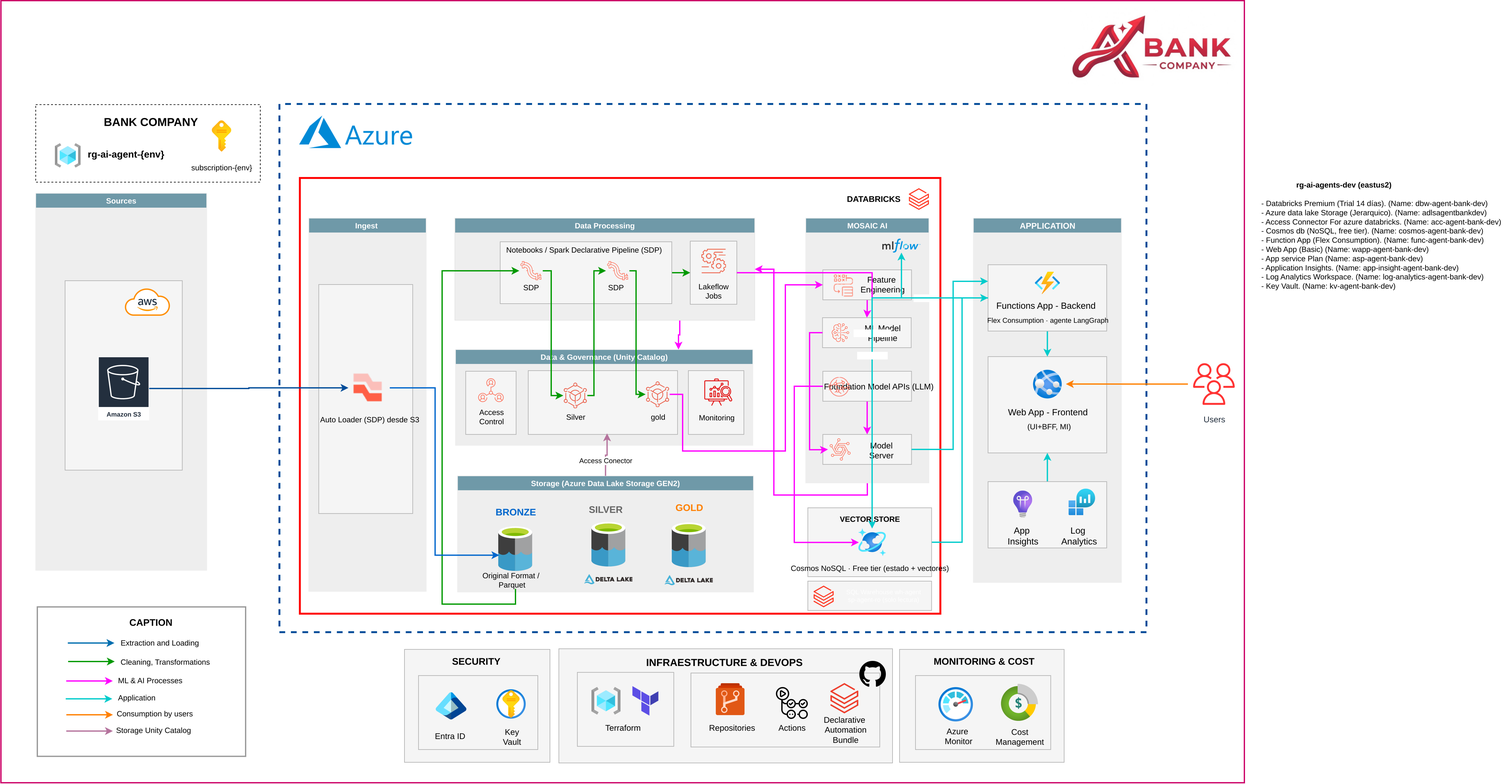
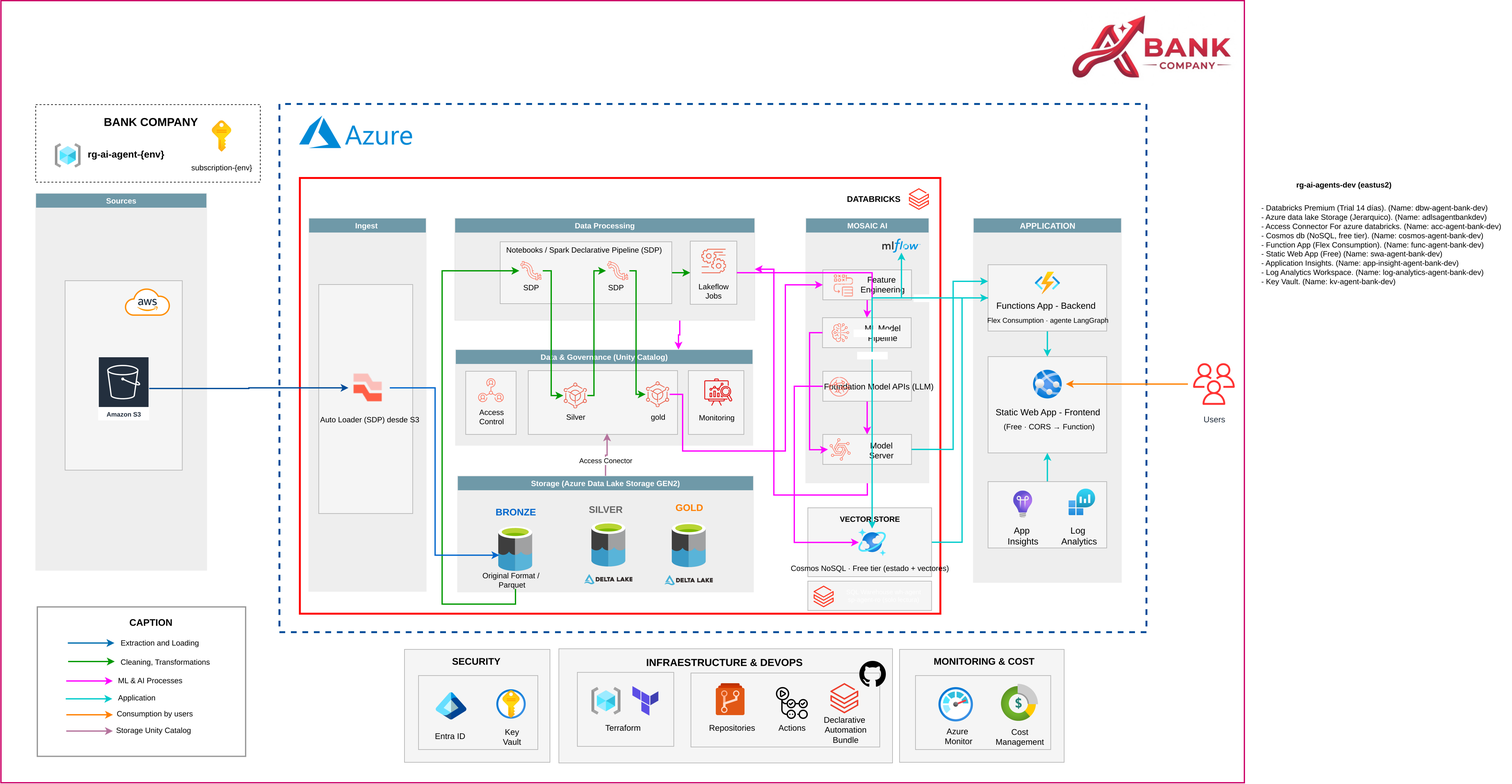
adr(servicio): ADR-19 v3 · lo que cambió al desplegar (#5)
* adr(servicio): ADR-19 v3, documentación igual a lo desplegado

* chore(diagrams): export

---------

Changed region(s): [[0.8118, 0.2474, 0.9992, 0.371], [0.6557, 0.5256, 0.7181, 0.5566]]

diff --git a/docs/adr/09-servicio.md b/docs/adr/09-servicio.md
@@ -1,15 +1,22 @@
 # 09-servicio
 
-Owner: Nicolle · v2 · 2026-09-29.
+Owner: Nicolle · v3 · 2026-09-29 (noche).
 
 ## ADR-19 · Plan de infraestructura en Terraform  ·  rol: servicio  ·  2026-09-29  ·  estado: cerrada
 
 **Decisión.** Servicio crea y opera toda la infraestructura de Azure y Databricks con Terraform, en East US 2. Datos e ia-ml trabajan dentro de esa plataforma y no crean recursos.
 
+**Cambios v3 (2026-09-29, tras el primer despliegue).**
+- Chat en **Static Web Apps Free** (`swa-agent-bank-dev`) en vez de Web App B1 + BFF: la suscripción tiene 0 de cuota de App Service B1, y con el JWT de prueba un BFF no protege nada extra.
+- Terraform corre **solo en GitHub Actions** (workflow `infra`): plan en cada PR, apply en `main` con aprobación del environment `hackathon`. No hay `infra/bootstrap`: el workflow crea el storage del estado con `infra/scripts/ensure-backend.sh`.
+- Identidad de CI: el SP `sp-deploy-iac-hackathon` que entregó Eladio, con secreto en GitHub **temporal**. Pasa a OIDC cuando Nicolle tenga Cloud Application Administrator en Entra ID. Roles del SP en la suscripción: Contributor, Storage Blob Data Contributor, User Access Administrator (con condición ABAC: solo asigna ese mismo rol) y Role Based Access Control Administrator (sin condición, otorgado por Nicolle el 2026-09-29 para que Terraform asigne roles).
+- Secret scope `fh26` administrado por Databricks (no respaldado en Key Vault: ese tipo exige token de usuario y Terraform no corre desde una laptop). Terraform copia los valores desde Key Vault.
+- Desplegado el 2026-09-29: todo `infra/azure`. Pendiente: `infra/databricks` (requiere account admin de Databricks).
+
 ### Reparto
 | Qué | Dueña/o |
 | --- | --- |
-| Azure: resource group, Key Vault, Log Analytics + App Insights, storage, Cosmos, Function App, Web App + App Service Plan, presupuesto, OIDC de CI | servicio |
+| Azure: resource group, Key Vault, Log Analytics + App Insights, storage, Cosmos, Function App, Static Web App, presupuesto, identidad de CI | servicio |
 | Databricks: workspace, ADLS Gen2 + Access Connector, storage credential + external location, catálogo `hackathon`, esquemas `bronze`/`silver`/`gold`/`ref`/`ops`/`ml`, grants del equipo, `sp-pipelines`, `sp-agent-ro`, secret scope `fh26`, `wh-agent`, experimento `/Shared/fh26/agente`, endpoints de Model Serving, config de FM APIs (endpoints, rate limits) | servicio |
 | Tablas, pipelines medallón, DQ, Asset Bundles de datos | datos |
 | Código del agente (`agent/`), prompts, modelo LightGBM y su versión, elección de LLM (ADR-02), eval | ia-ml |
@@ -20,12 +27,12 @@ Región: `eastus2` (Claude Sonnet 5 verificado por Nicolle el 2026-09-29). Nombr
 | Recurso | Nombre | SKU / plan | Notas |
 | --- | --- | --- | --- |
 | Resource group | `rg-ai-agents-dev` | — | uno para todo el hackathon |
-| Estado Terraform | `rg-tfstate-agent-bank-dev`, `sttfstateagentbankdev` | Standard LRS | se crea una vez desde `infra/bootstrap` |
+| Estado Terraform | `rg-tfstate-agent-bank-dev`, `sttfstateagentbankdev` | Standard LRS, versionado | lo crea `infra/scripts/ensure-backend.sh` dentro del workflow |
 | Key Vault | `kv-agent-bank-dev` | Standard, RBAC | secretos de la tabla "Secretos" |
 | Log Analytics + App Insights | `log-analytics-agent-bank-dev`, `app-insight-agent-bank-dev` | pago por GB (5 GB/mes sin costo) | App Insights basado en workspace |
 | Storage de la Function | `stfuncagentbankdev` | Standard LRS | `AzureWebJobsStorage` y contenedor de deploy |
 | Function App | `func-agent-bank-dev` | Flex Consumption, Linux, python3.11, 2048 MB | máx. 10 instancias; always-ready 0 (1 en ventana de jurado); identidad administrada |
-| Frontend | `wapp-agent-bank-dev` + plan `asp-agent-bank-dev` | Web App Linux, App Service Plan B1 | chat + vista `/handoff/{case_id}`; UI + BFF: llama a la Function App del lado del servidor con identidad administrada |
+| Frontend | `swa-agent-bank-dev` | Static Web Apps Free | chat + vista `/handoff/{case_id}`; llama a la Function App desde el navegador (CORS) |
 | Cosmos DB | `cosmos-agent-bank-dev` | NoSQL, free tier, capability `EnableNoSQLVectorSearch` | ver "Cosmos" |
 | Databricks | `dbw-agent-bank-dev` | Premium trial (14 días), como en el diagrama | solo cómputo serverless |
 | ADLS Gen2 | `adlsagentbankdev` | Standard LRS, HNS | storage del catálogo; contenedor `ops-export` |
@@ -45,9 +52,9 @@ Cosmos no admite búsqueda vectorial en throughput compartido. Por eso cada cont
 ### Estructura de Terraform
 ```
 infra/
-  bootstrap/    rg + storage del estado (estado local, se aplica una vez)
-  azure/        azurerm + azapi + azuread: rg, kv, log/appi, storage, cosmos, function, web app + plan, dbw, adls, access connector, budget, OIDC
-  databricks/   provider databricks (host = output de azure/): storage credential, catálogo, esquemas, grants, sp-agent-ro, sp-pipelines, secret scope, wh-agent, experimento, serving
+  azure/        azurerm + azapi: rg, kv, log/appi, storage, cosmos, function, static web app, dbw, adls, access connector, budget  (desplegado)
+  scripts/      ensure-backend.sh: storage del estado, idempotente
+  databricks/   (pendiente) provider databricks (host = output de azure/): storage credential, catálogo, esquemas, grants, sp-agent-ro, sp-pipelines, secret scope, wh-agent, experimento, serving
 ```
 Dos stacks porque el provider de Databricks necesita la URL del workspace antes de configurarse.
 
@@ -57,7 +64,7 @@ Dos stacks porque el provider de Databricks necesita la URL del workspace antes 
 | `databricks-client-secret` | Function App (`DATABRICKS_CLIENT_SECRET`) |
 | `cosmos-key` | Function App (`COSMOS_KEY`), carga de chunks |
 | `jwt-signing-key` | Function App (`JWT_SIGNING_KEY`) |
-| `s3-access-key-id`, `s3-secret-access-key` | ingesta de S3, vía secret scope `fh26` |
+| `s3-access-key-id`, `s3-secret-access-key` | ingesta de S3, vía secret scope `fh26`. Entran como secretos de GitHub (`S3_ACCESS_KEY_ID`, `S3_SECRET_ACCESS_KEY`) → Terraform → Key Vault |
 
 El scope `fh26` expone `s3-access-key-id`, `s3-secret-access-key` y `cosmos-key` (carga de chunks a Cosmos, E7).
 
@@ -65,7 +72,7 @@ App Settings de la Function App (`contracts/infra.yaml` v3): los 12 de v2 más `
 
 `sp-agent-ro` es un service principal de Databricks con secreto OAuth M2M. Grants: `USE CATALOG hackathon`, `USE SCHEMA` + `SELECT` sobre `gold` y `ref`, `CAN_USE` sobre `wh-agent`, `CAN_QUERY` sobre los endpoints de serving y FM APIs, `CAN_EDIT` sobre `/Shared/fh26/agente`. Sin escritura en datos.
 
-El secret scope `fh26` usa Key Vault como respaldo. Se crea con token de usuario de Entra (`az login`), no con el SP de CI.
+El secret scope `fh26` lo administra Databricks. Terraform (stack `infra/databricks`) lee los valores de Key Vault y los escribe en el scope.
 
 Grants del equipo:
 
@@ -81,7 +88,7 @@ Storage: storage credential sobre `acc-agent-bank-dev` y external location sobre
 ### Identidad (cierra ADR-12)
 Mock JWT. `POST /session` corre en la Function App, recibe uno de los 5 clientes de prueba (M3, `docs/test-users.md`) y firma HS256 con `JWT_SIGNING_KEY`. Claims: `customer_id`, `scopes`, `exp` (30 min). El nodo de auth valida firma y `exp`; `customer_id` solo sale del token. Entra External ID queda en To-Be.
 
-La Web App (BFF) llama a la Function App del lado del servidor con el token de su identidad administrada; la Function App acepta ese token y el de CI (smoke y carga). Mecanismo (Easy Auth o validación en código) y App Settings del BFF se cierran en N5.
+El chat (Static Web App) llama a la Function App desde el navegador con el JWT. CORS en la Function App solo acepta el origen de la Static Web App. Los triggers HTTP van con `auth_level=ANONYMOUS` y validan el JWT en código (no hay dónde esconder una function key). `/handoff/{case_id}` y `/trace/{trace_id}` exigen un scope de agente humano en el JWT; el nombre del scope lo define ia-ml en `contracts/api.yaml`.
 
 ### Resiliencia
 | Punto | Control |
@@ -92,6 +99,7 @@ La Web App (BFF) llama a la Function App del lado del servidor con el token de s
 | Function App | máx. 10 instancias para acotar costo y llamadas a FM APIs |
 | Model Serving | scale-to-zero fuera de la ventana de jurado; el cold start supera los 8 s de timeout y el turno escala |
 | `/healthz` | revisa LLM, Cosmos, Model Serving y SQL Warehouse |
+| SQL Warehouse | serverless apagado tarda en arrancar y puede pasar los 8 s de timeout de las tools; ver "Capacidad y límites" |
 
 ### Observabilidad
 - App Insights → Log Analytics. `operation_id` = `trace_id`.
@@ -104,12 +112,13 @@ La Web App (BFF) llama a la Function App del lado del servidor con el token de s
 ### CI/CD
 | Workflow | Disparo | Qué hace |
 | --- | --- | --- |
-| `ci.yml` | PR | pytest, eval-harness (cuando exista M7), `terraform fmt/validate/plan` con comentario en el PR, gitleaks |
-| `deploy.yml` | push a `main` | `terraform apply` (azure → databricks), deploy de la Function App, deploy de la Web App, smoke `/chat` (N8) |
-| `bundles.yml` | push a `main` con cambios en bundles | `databricks bundle deploy` (X2), con `run_as` = `sp-pipelines` |
-| `adr-impact.yml`, `diagram-sync.yml` | PR | sin cambio; `diagram-sync` necesita arreglo de push (hace push desde un HEAD suelto) |
+| `infra.yml` | PR y push a `main` en `infra/**` | PR: backend, `init`, `validate`, `plan`, comentario en el PR. `main`: `apply` tras aprobar el environment `hackathon` |
+| `ci.yml` (pendiente) | PR | pytest, eval-harness (cuando exista M7), gitleaks |
+| `deploy.yml` (pendiente) | push a `main` | deploy de la Function App y de la Static Web App (el token de deploy se pide con `az staticwebapp secrets list`), smoke `/chat` (N8) |
+| `bundles.yml` (pendiente) | push a `main` con cambios en bundles | `databricks bundle deploy` (X2), con `run_as` = `sp-pipelines` |
+| `adr-impact.yml`, `diagram-sync.yml` | PR | `diagram-sync` sube los PNG a la rama del PR y no corre en commits del bot |
 
-Autenticación: OIDC de GitHub a Entra, sin secretos en GitHub. App registration `gh-agent-bank-deploy` con credenciales federadas para `repo:nicollemayol/factored-hackathon-2026-the-trident` (rama `main` y `pull_request`). Roles: Contributor y Role Based Access Control Administrator sobre `rg-ai-agents-dev`; Storage Blob Data Contributor sobre el estado. El provider de Databricks usa `auth_type = "github-oidc-azure"`. Solo Nicolle mergea a `main`.
+Autenticación (temporal): SP `sp-deploy-iac-hackathon` con secreto `AZURE_CLIENT_SECRET` en GitHub; `AZURE_CLIENT_ID`, `AZURE_TENANT_ID`, `AZURE_SUBSCRIPTION_ID` como variables. Riesgo: cualquier rama del repo puede leer el secreto desde un workflow; se acepta por días entre tres personas. Destino: OIDC con credenciales federadas para `repo:NicolleMayol/factored-hackathon-2026-the-trident:pull_request` y `…:environment:hackathon`. Solo Nicolle aprueba el apply y mergea a `main`.
 
 ### Capacidad y límites conocidos
 | Límite | Valor | Efecto |
@@ -117,7 +126,10 @@ Autenticación: OIDC de GitHub a Entra, sin secretos en GitHub. App registration
 | Arranque de la Function App | 30 s, fijo | si `agent/` carga modelos al importar, la app no arranca |
 | Memoria por instancia | 512 / 2048 / 4096 MB | se usa 2048 |
 | Cosmos | 400 RU/s por contenedor | picos de carga de chunks deben ir con throttle |
-| App Service Plan B1 | 1 núcleo, 1,75 GB, sin tope diario de CPU | suficiente para el chat y el BFF |
+| Cuota de App Service B1 en la suscripción | 0 | el chat va en Static Web Apps, que no usa esa cuota |
+| Static Web Apps Free | 100 GB/mes de ancho de banda, 250 MB por app (a verificar) | suficiente para el chat |
+| SQL Warehouse serverless apagado | varios segundos de arranque (a medir) | la primera consulta de `get_customer_profile` puede pasar los 8 s y escalar. Propuesta abierta: copiar los datos de cliente que usa el agente a Cosmos |
+| Primer apply de la Function App | bug de azurerm 5.1: el bloque CORS depende de la URL de la Static Web App y falla la primera vez | volver a correr el apply; desde entonces planea bien |
 | FM APIs pay-per-token | límites por workspace | se miden en N7 |
 | Cuota de vCPU de la suscripción | depende de la cuenta | solo cómputo serverless en Databricks |
 | Lectura de S3 desde serverless | las llaves de S3 en la config de Spark no están disponibles en serverless (a verificar) | ingesta con boto3 + llaves del scope → volumen de UC → Auto Loader; o `azcopy` S3 → ADLS desde GitHub Actions. Decide datos |
@@ -128,9 +140,9 @@ Carga (N7): k6 desde GitHub Actions con 10/25/50 usuarios; p50/p95 en caliente, 
 | Fase | Fecha | Qué | Desbloquea |
 | --- | --- | --- | --- |
 | 0 · Chequeos | mar 29 noche | créditos en Cost Management, regiones de Flex, cuota de vCPU | — |
-| 1 · Databricks | mar 29 noche | workspace, ADLS, Access Connector, storage credential, KV + scope, catálogo, esquemas, grants del equipo, `sp-agent-ro`, `sp-pipelines`, `wh-agent`, experimento | X1 → Eladio, Manuela |
-| 2 · Azure app | mar 29 → mié 30 mañana | Cosmos, Function App, App Insights, `/session` | N3, N4, N2 |
-| 3 · CI/CD + frontend | mié 30 | OIDC, `ci.yml`, `deploy.yml`, bundles, Web App | N1, X2, N5 → Integración 1 |
+| 1 · Databricks | mar 29 noche: workspace, ADLS y Access Connector hechos; el resto espera account admin | workspace, ADLS, Access Connector, storage credential, KV + scope, catálogo, esquemas, grants del equipo, `sp-agent-ro`, `sp-pipelines`, `wh-agent`, experimento | X1 → Eladio, Manuela |
+| 2 · Azure app | mar 29 noche: hecho salvo `/session` | Cosmos, Function App, App Insights, `/session` | N3, N4, N2 |
+| 3 · CI/CD + frontend | mié 30 | workflow `infra` (hecho), `ci.yml`, `deploy.yml`, bundles, Static Web App (creada) | N1, X2, N5 → Integración 1 |
 | 4 · Observar + carga | jue 1 → sáb 3 | export a `ops.infra_requests`, smoke, tablero, k6 | N6, N8, X3, N7 |
 | 5 · Ventana de jurado | sáb 3 → resultados | always-ready 1 en la Function App; Model Serving sin scale-to-zero | demo sin cold start |
 | 6 · Cierre | tras resultados | `terraform destroy` | corta el gasto |
@@ -142,8 +154,8 @@ Carga (N7): k6 desde GitHub Actions con 10/25/50 usuarios; p50/p95 en caliente, 
 | Function App always-ready | 1 instancia × 2 GB × 72 h (ventana de jurado) | ≈ 2 |
 | Function App on-demand | dentro de la cuota mensual sin costo | ≈ 0 |
 | Storage, Key Vault, Log Analytics | < 5 GB de logs | < 1 |
-| Web App | App Service Plan B1 Linux × 168 h | ≈ 3 |
-| **Azure, subtotal** | | **≈ 8–9** |
+| Static Web Apps | Free | 0 |
+| **Azure, subtotal** | | **≈ 5–6** |
 | Databricks (serverless SQL, jobs, Model Serving, tokens de FM APIs) | se mide a diario en `system.billing.usage` | a medir |
 
 Créditos disponibles: sin confirmar. `budget_usd` se fija en la fase 0. El workspace usa el SKU `trial` del diagrama DEMO: DBU Premium sin costo por 14 días desde su creación (vence cerca del 13 oct). A verificar si cubre serverless, Model Serving y FM APIs, y qué pasa si la evaluación sigue después del vencimiento.
@@ -154,7 +166,10 @@ Créditos disponibles: sin confirmar. `budget_usd` se fija en la fase 0. El work
 | Scripts `az` | no se repiten igual; sin plan ni drift |
 | Cada rol crea sus recursos | tres formas de crear infra; permisos repartidos; sin un solo `destroy` |
 | App Service F1 para el chat | se detiene tras 60 min de CPU al día; riesgo durante la evaluación |
-| Static Web Apps Free para el chat | sin BFF: el navegador llamaría directo a la Function App; se aparta del diagrama DEMO |
+| Web App B1 + BFF (diagrama DEMO) | cuota de App Service B1 en 0; con JWT de prueba el BFF no protege nada extra; ~USD 13/mes |
+| App registration propia para OIDC | exige permisos de Entra ID que hoy no hay; se usa el SP entregado por Eladio |
+| Scope `fh26` respaldado en Key Vault | exige token de usuario; Terraform corre solo en el pipeline |
+| `infra/bootstrap` corrido desde una laptop | Terraform corre solo en el pipeline; el backend lo crea un script idempotente |
 | Cosmos con throughput compartido de 1.000 RU/s | no admite búsqueda vectorial |
 | Cómputo clásico en Databricks | usa cuota de vCPU de la suscripción y VMs a cargo del equipo |
 | East US | East US 2 tiene Flex Consumption, FM APIs pay-per-token y Claude Sonnet 5 |
@@ -166,15 +181,15 @@ Créditos disponibles: sin confirmar. `budget_usd` se fija en la fase 0. El work
 | `infra.databricks_access` | cambia: owner datos → servicio; X1 lo entrega servicio; + esquemas `bronze`/`silver`, grants del equipo, `sp-pipelines` | servicio | datos, ia-ml | Eladio: crear tablas y pipelines en sus esquemas; elegir cómo leer S3 desde serverless. Manuela: registrar modelos en `ml` | mié 30 mañana |
 | `infra.databricks_workspace` | nuevo | servicio | datos, ia-ml | usar solo serverless | mar 29 noche |
 | `infra.adls` | cambia: owner datos → servicio | servicio | datos, ia-ml | nada | — |
-| `infra.key_vault` | cambia: + llaves S3, scope `fh26` | servicio | datos, ia-ml | Eladio: leer S3 solo con `dbutils.secrets.get("fh26", ...)` | mié 30 |
+| `infra.key_vault` | cambia: + llaves S3 (desde secretos de GitHub), scope `fh26` administrado por Databricks | servicio | datos, ia-ml | Eladio: leer S3 solo con `dbutils.secrets.get("fh26", ...)` | mié 30 |
 | `infra.cosmos` | cambia: 3 × 400 RU/s dedicados, vector search | servicio | ia-ml, datos | Eladio: carga del JSONL con throttle | mar 29 |
 | `infra.function_app` | cambia: 2048 MB, máx. 10 instancias, arranque ≤ 30 s | servicio | ia-ml | Manuela: no cargar modelos al importar `agent/`; decir dónde corre el embedding de la consulta | mié 30 mañana |
 | `infra.function_app_settings` | cambia: + `APPLICATIONINSIGHTS_CONNECTION_STRING`; secretos como referencias a Key Vault | servicio | ia-ml | nada en código | mié 30 mañana |
-| `infra.identity` | cambia: ADR-12 cerrada, mock JWT HS256 | servicio | ia-ml | Manuela: validar HS256 y `exp` en el nodo de auth | mié 30 |
-| `infra.app_service` | cambia: App Service F1 → Web App B1 (UI + BFF con identidad administrada), como en el diagrama DEMO | servicio | ia-ml | nada; el BFF llama a `/chat` | mié 30 |
+| `infra.identity` | cambia: ADR-12 cerrada, mock JWT HS256; triggers HTTP anónimos + validación del JWT en código; scope de agente humano en `/handoff` y `/trace` | servicio | ia-ml | Manuela: validar HS256 y `exp`; `auth_level=ANONYMOUS`; definir el scope de agente humano en `api.yaml` | mié 30 |
+| `infra.app_service` | cambia: App Service F1 → Static Web Apps Free (`swa-agent-bank-dev`), llamada directa a la Function App con CORS | servicio | ia-ml | nada en infra; ver `infra.identity` | mié 30 |
 | `infra.model_serving` | cambia: owner ia-ml → servicio (endpoint); el modelo sigue en `ml.prescore_lgbm` | servicio | ia-ml | Manuela: registrar la versión en UC | jue 1 |
 | `infra.fm_apis` | cambia: owner ia-ml → servicio (endpoints, rate limits); el modelo sigue en ADR-02 | servicio | ia-ml | nada | — |
-| `infra.ci_cd` | cambia: OIDC, `ci.yml`, `deploy.yml`, gitleaks, plan en PR | servicio | datos, ia-ml | nada | mié 30 |
+| `infra.ci_cd` | cambia: workflow `infra` con SP y secreto temporal (OIDC pendiente), environment `hackathon` con aprobación | servicio | datos, ia-ml | nada | hecho |
 | `infra.iac` | nuevo | servicio | datos, ia-ml | pedir recursos por PR a `infra/` | — |
 
 **Cómo se prueba.**
@@ -197,10 +212,11 @@ Créditos disponibles: sin confirmar. `budget_usd` se fija en la fase 0. El work
 | Hackathon | To-Be |
 | --- | --- |
 | Un entorno | dev/staging/prod con promoción |
-| Un SP de CI con Contributor en el RG | SPs separados para plan y apply, con aprobación manual |
+| SP de CI con secreto en GitHub (Contributor + RBAC Administrator en la suscripción) | OIDC; SPs separados para plan y apply |
 | Mock JWT HS256 | Entra External ID |
 | `COSMOS_KEY` en Key Vault | RBAC de Cosmos con identidad administrada, sin llave |
-| Web App y Function App con endpoints públicos | página ENTERPRISE de `diagrams/arquitectura.drawio`: hub-spoke con WAF y firewall, private endpoints y DNS privado, Easy Auth + token OBO, Sentinel |
+| Static Web App y Function App con endpoints públicos; chat sin BFF | página ENTERPRISE de `diagrams/arquitectura.drawio`: App Service + Easy Auth + token OBO detrás de WAF y firewall, private endpoints y DNS privado, Sentinel |
+| Function App con llave del storage | identidad administrada sobre el storage |
 | Always-ready solo en ventana de jurado | always-ready permanente o plan Premium |
 | Model Serving scale-to-zero | provisioned throughput |
 | Data export de Log Analytics → ADLS | diagnostic settings → Event Hubs → streaming |
@@ -211,9 +227,9 @@ Créditos disponibles: sin confirmar. `budget_usd` se fija en la fase 0. El work
 | # | Entregable | De → para | Formato | Fecha | Mock |
 | --- | --- | --- | --- | --- | --- |
 | X1 (cambia) | Workspace Premium trial, ADLS, storage credential, KV + scope `fh26`, catálogo y esquemas (`bronze`, `silver`, `gold`, `ref`, `ops`, `ml`), grants del equipo, `sp-agent-ro`, `sp-pipelines`, `wh-agent`, experimento con `CAN_EDIT` | Nicolle → Eladio, Manuela | Terraform `infra/databricks` + URL y http path | mar 29 noche; grants mié 30 mañana | CSV local; experimento personal |
-| N1 (cambia) | Repo en `nicollemayol/factored-hackathon-2026-the-trident`, CI con OIDC, plan en PR, gitleaks | Nicolle → todos | GitHub | mié 30 | — |
+| N1 (cambia) | Repo en `NicolleMayol/factored-hackathon-2026-the-trident`; workflow `infra` (plan en PR, apply con aprobación); OIDC y gitleaks pendientes | Nicolle → todos | GitHub | hecho (OIDC pendiente) | — |
 | N2 (cambia) | Function App Flex 2048 MB + App Settings de `infra.yaml` v3 | Nicolle → Manuela | Azure | mié 30 mañana | `func start` + `local.settings.json` |
 | N3 (cambia) | Cosmos free tier, 3 contenedores × 400 RU/s, vector search | Nicolle → Manuela, Eladio | Azure | mar 29 | emulador / LanceDB |
-| N5 (cambia) | Web App B1 (UI + BFF con identidad administrada): chat + vista `/handoff` | Nicolle → Manuela | Azure | mié 30 | curl |
+| N5 (cambia) | Static Web Apps Free: chat + vista `/handoff` | Nicolle → Manuela | Azure | recurso creado; UI mié 30 | curl |
 
 **Base regulatoria.** No aplica en el hackathon: el dataset es de Factored y todo queda en East US 2 dentro del tenant. Residencia y retención por país quedan en To-Be, a validar con legal.

diff --git a/docs/adr/07-hackathon-vs-tobe.md b/docs/adr/07-hackathon-vs-tobe.md
@@ -1,7 +1,7 @@
 # 07-hackathon-vs-tobe
 
-Owner: todos · v1.2 · 2026-09-29.
+Owner: todos · v1.3 · 2026-09-29.
 
-Se construye: infraestructura en Terraform en un entorno y una región (East US 2), chat en Web App B1 con BFF y CI con OIDC (ADR-19), identidad mock JWT HS256 (ADR-12), filtro por customer_id, reglas YAML, LightGBM scale-to-zero, FM APIs pay-per-token, guardrails propios, vista mínima de handoff, MLflow + App Insights, batch simulado, retries/circuit breaker, TTL 24 h, agente LangGraph en la Function App Flex Consumption con prompts versionados en el repo (ADR-18). To-Be: Entra External ID, RLS/masking + Purview, motor de decisión del banco, validación independiente y drift, provisioned throughput, gateway guardrails, CRM, tablero en producción, Lakeflow, multi-región, retención por país, agente en Mosaic AI Agent Framework (agents.deploy, Review App) o Agent Bricks, MLflow Prompt Registry, estado en Lakebase, instancias always-ready si el cold start pesa en producción (ADR-18), entornos dev/staging/prod con promoción, SPs de CI separados para plan y apply, RBAC de Cosmos con identidad administrada sin llave, la arquitectura de la página ENTERPRISE del diagrama: hub-spoke, WAF, private endpoints, Sentinel (ADR-19).
+Se construye: infraestructura en Terraform en un entorno y una región (East US 2), chat en Static Web Apps Free y Terraform solo en GitHub Actions (ADR-19), identidad mock JWT HS256 (ADR-12), filtro por customer_id, reglas YAML, LightGBM scale-to-zero, FM APIs pay-per-token, guardrails propios, vista mínima de handoff, MLflow + App Insights, batch simulado, retries/circuit breaker, TTL 24 h, agente LangGraph en la Function App Flex Consumption con prompts versionados en el repo (ADR-18). To-Be: Entra External ID, RLS/masking + Purview, motor de decisión del banco, validación independiente y drift, provisioned throughput, gateway guardrails, CRM, tablero en producción, Lakeflow, multi-región, retención por país, agente en Mosaic AI Agent Framework (agents.deploy, Review App) o Agent Bricks, MLflow Prompt Registry, estado en Lakebase, instancias always-ready si el cold start pesa en producción (ADR-18), entornos dev/staging/prod con promoción, SPs de CI separados para plan y apply, RBAC de Cosmos con identidad administrada sin llave, la arquitectura de la página ENTERPRISE del diagrama: hub-spoke, WAF, private endpoints, Sentinel (ADR-19).
 
 Para ampliar este apartado usa el skill `adr-hackathon` (modo documentar).

diff --git a/docs/adr/dependencies.md b/docs/adr/dependencies.md
@@ -1,4 +1,4 @@
-# Dependencias entre roles · v3 · 2026-09-29 (ADR-18: N2, X1, M6, X3 cambian; N8 nueva · ADR-19: X1 pasa a Nicolle; N1, N2, N3, N5, E1, E2 cambian)
+# Dependencias entre roles · v3 · 2026-09-29 (ADR-18: N2, X1, M6, X3 cambian; N8 nueva · ADR-19: X1 pasa a Nicolle; N1, N2, N3, N5, E1, E2 cambian · ADR-19 v3: N1, N5)
 Regla: cada entregable tiene dueño, receptor, formato y fecha; hasta que llega, el receptor trabaja con mock. Integraciones: mié 30 sep y sáb 3 oct.
 
 ## Manuela ← Eladio
@@ -16,11 +16,11 @@ Regla: cada entregable tiene dueño, receptor, formato y fecha; hasta que llega,
 ## Manuela ← Nicolle
 | # | Entregable | Fecha | Mock |
 | --- | --- | --- | --- |
-| N1 | Repo en nicollemayol/factored-hackathon-2026-the-trident; CI con OIDC (pytest + eval + adr-impact + terraform plan + gitleaks); solo Nicolle mergea | Mié 30 | rama local |
+| N1 | Repo en NicolleMayol/factored-hackathon-2026-the-trident; workflow infra (plan en PR, apply con aprobación); OIDC, pytest, eval y gitleaks pendientes; solo Nicolle mergea | Mié 30 | rama local |
 | N2 | Function App Flex Consumption 2048 MB + App Settings de contracts/infra.yaml v3 (+ APPLICATIONINSIGHTS_CONNECTION_STRING; secretos como referencias a Key Vault) | Mié 30 mañana | func start + local.settings.json |
 | N3 | Cosmos free tier: conversations, handoffs, policy_chunks (DiskANN), 400 RU/s dedicados por contenedor | Mar 29 | emulador / LanceDB |
 | N4 | Identidad mock POST /session + 5 clientes de prueba | Mar 29 | JWT local |
-| N5 | Web App B1 (UI + BFF con identidad administrada): chat + /handoff (ADR-19) | Mié 30 | curl |
+| N5 | Static Web Apps Free: chat + /handoff (ADR-19 v3; recurso creado) | Mié 30 | curl |
 | N6 | App Insights + export ops.infra_requests | Jue 1 | logs locales |
 | N7 | Carga 10/25/50 usuarios; p50/p95; costo por caso | Sáb 3 | — |
 | N8 | Job CI post-deploy: smoke /chat con subconjunto de eval/cases.jsonl; p95 en caliente separado de cold start | Vie 2 | func start local |

diff --git a/docs/adr/decisions.md b/docs/adr/decisions.md
@@ -20,4 +20,4 @@
 | 16 | ia-ml | Multilenguaje sin traducción; idioma en Understand y Respond; embeddings cross-lingual; glosario; país desde perfil | Traducir; fine-tuning | No se pierde contexto; PT medido donde falla | cerrada |
 | 17 | ia-ml | Cuantización int8 solo embeddings/clasificador/reranker con go/no-go en PT | Cuantizar todo | Gana donde se nota en el servicio | cerrada |
 | 18 | ia-ml | El agente (grafo LangGraph) corre en la Function App Flex Consumption; Databricks aporta Foundation Model APIs, Model Serving y MLflow, no un Agent Framework | Mosaic AI Agent Framework (agente como endpoint de Model Serving); Agent Bricks | Un runtime, junto a la API; sin endpoint de agente con costo fijo; mismo código en func start y en Azure | cerrada |
-| 19 | servicio | Toda la infraestructura de Azure y Databricks en Terraform (East US 2), owner servicio: workspace, ADLS, Key Vault, catálogo y grants, Cosmos 3 × 400 RU/s, Function App Flex 2048 MB, Web App B1 con BFF (diagrama DEMO), CI con OIDC; ver `09-servicio.md` | Bicep; scripts az; cada rol crea sus recursos; App Service F1; Static Web Apps Free; Cosmos con throughput compartido | Un plan, un `destroy`, permisos en un solo lugar; vector search exige throughput dedicado; F1 se detiene tras 60 min de CPU al día | cerrada |
+| 19 | servicio | Toda la infraestructura de Azure y Databricks en Terraform (East US 2), owner servicio: workspace, ADLS, Key Vault, catálogo y grants, Cosmos 3 × 400 RU/s, Function App Flex 2048 MB, chat en Static Web Apps Free, Terraform solo en GitHub Actions con aprobación; ver `09-servicio.md` (v3) | Bicep; scripts az; cada rol crea sus recursos; App Service F1; Web App B1 + BFF (cuota 0); Cosmos con throughput compartido | Un plan, un `destroy`, permisos en un solo lugar; vector search exige throughput dedicado; F1 se detiene tras 60 min de CPU al día | cerrada |
